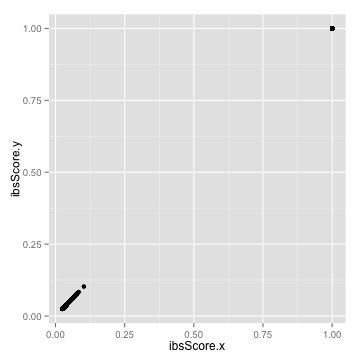
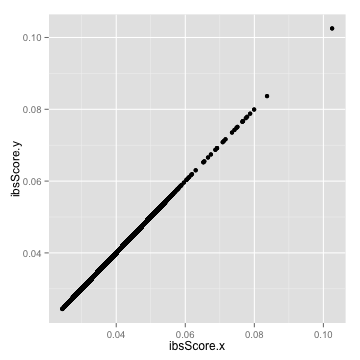
Removed diagonal from results comparison.
This makes the linear model and plot specific to the range of values we see for IBS between different individuals.

diff --git a/results/ibs/1000Genomes-chr22/analyze-ibs-data.md b/results/ibs/1000Genomes-chr22/analyze-ibs-data.md
@@ -185,14 +185,16 @@ and report the number of differences.
 
 
 ```r
-mergedIBS <- inner_join(ibsDataflowData, ibsPlinkSeqData, by = c(colnames(ibsDataflowData)[1:2]))
+mergedIBS <- inner_join(ExcludeDiagonal(ibsDataflowData),
+                        ExcludeDiagonal(ibsPlinkSeqData),
+                        by = c(colnames(ibsDataflowData)[1:2]))
 mergedDiffIBS <- mutate(mergedIBS, 
-                        almostEqualIBS = abs(mergedIBS$ibsScore.x - mergedIBS$ibsScore.y) < 1e-6)
+                        almostEqualIBS = abs(mergedIBS$ibsScore.x - mergedIBS$ibsScore.y) < 1e-5)
 nrow(mergedDiffIBS[mergedDiffIBS$almostEqualIBS == FALSE,])
 ```
 
 ```
-[1] 557454
+[1] 1032
 ```
 
 Plot the two IBS matrices to show their linear relationship.
@@ -217,18 +219,18 @@ lm(formula = ibsScore.y ~ ibsScore.x, data = mergedIBS)
 
 Residuals:
        Min         1Q     Median         3Q        Max 
--1.907e-05 -9.786e-07 -6.081e-07  1.067e-06  4.186e-06 
+-1.908e-05 -9.064e-07 -8.521e-07  1.116e-06  1.207e-06 
 
 Coefficients:
-             Estimate Std. Error   t value Pr(>|t|)    
-(Intercept) 5.334e-07  1.427e-09 3.737e+02   <2e-16 ***
-ibsScore.x  1.000e+00  2.557e-08 3.911e+07   <2e-16 ***
+              Estimate Std. Error   t value Pr(>|t|)    
+(Intercept) -1.266e-06  8.181e-09    -154.8   <2e-16 ***
+ibsScore.x   1.000e+00  2.279e-07 4388578.9   <2e-16 ***
 ---
 Signif. codes:  0 '***' 0.001 '**' 0.01 '*' 0.05 '.' 0.1 ' ' 1
 
-Residual standard error: 1.158e-06 on 1193554 degrees of freedom
+Residual standard error: 1.136e-06 on 1191370 degrees of freedom
 Multiple R-squared:      1,	Adjusted R-squared:      1 
-F-statistic: 1.53e+15 on 1 and 1193554 DF,  p-value: < 2.2e-16
+F-statistic: 1.926e+13 on 1 and 1191370 DF,  p-value: < 2.2e-16
 ```
 
 Comparison of IBS Results to Pedigree
